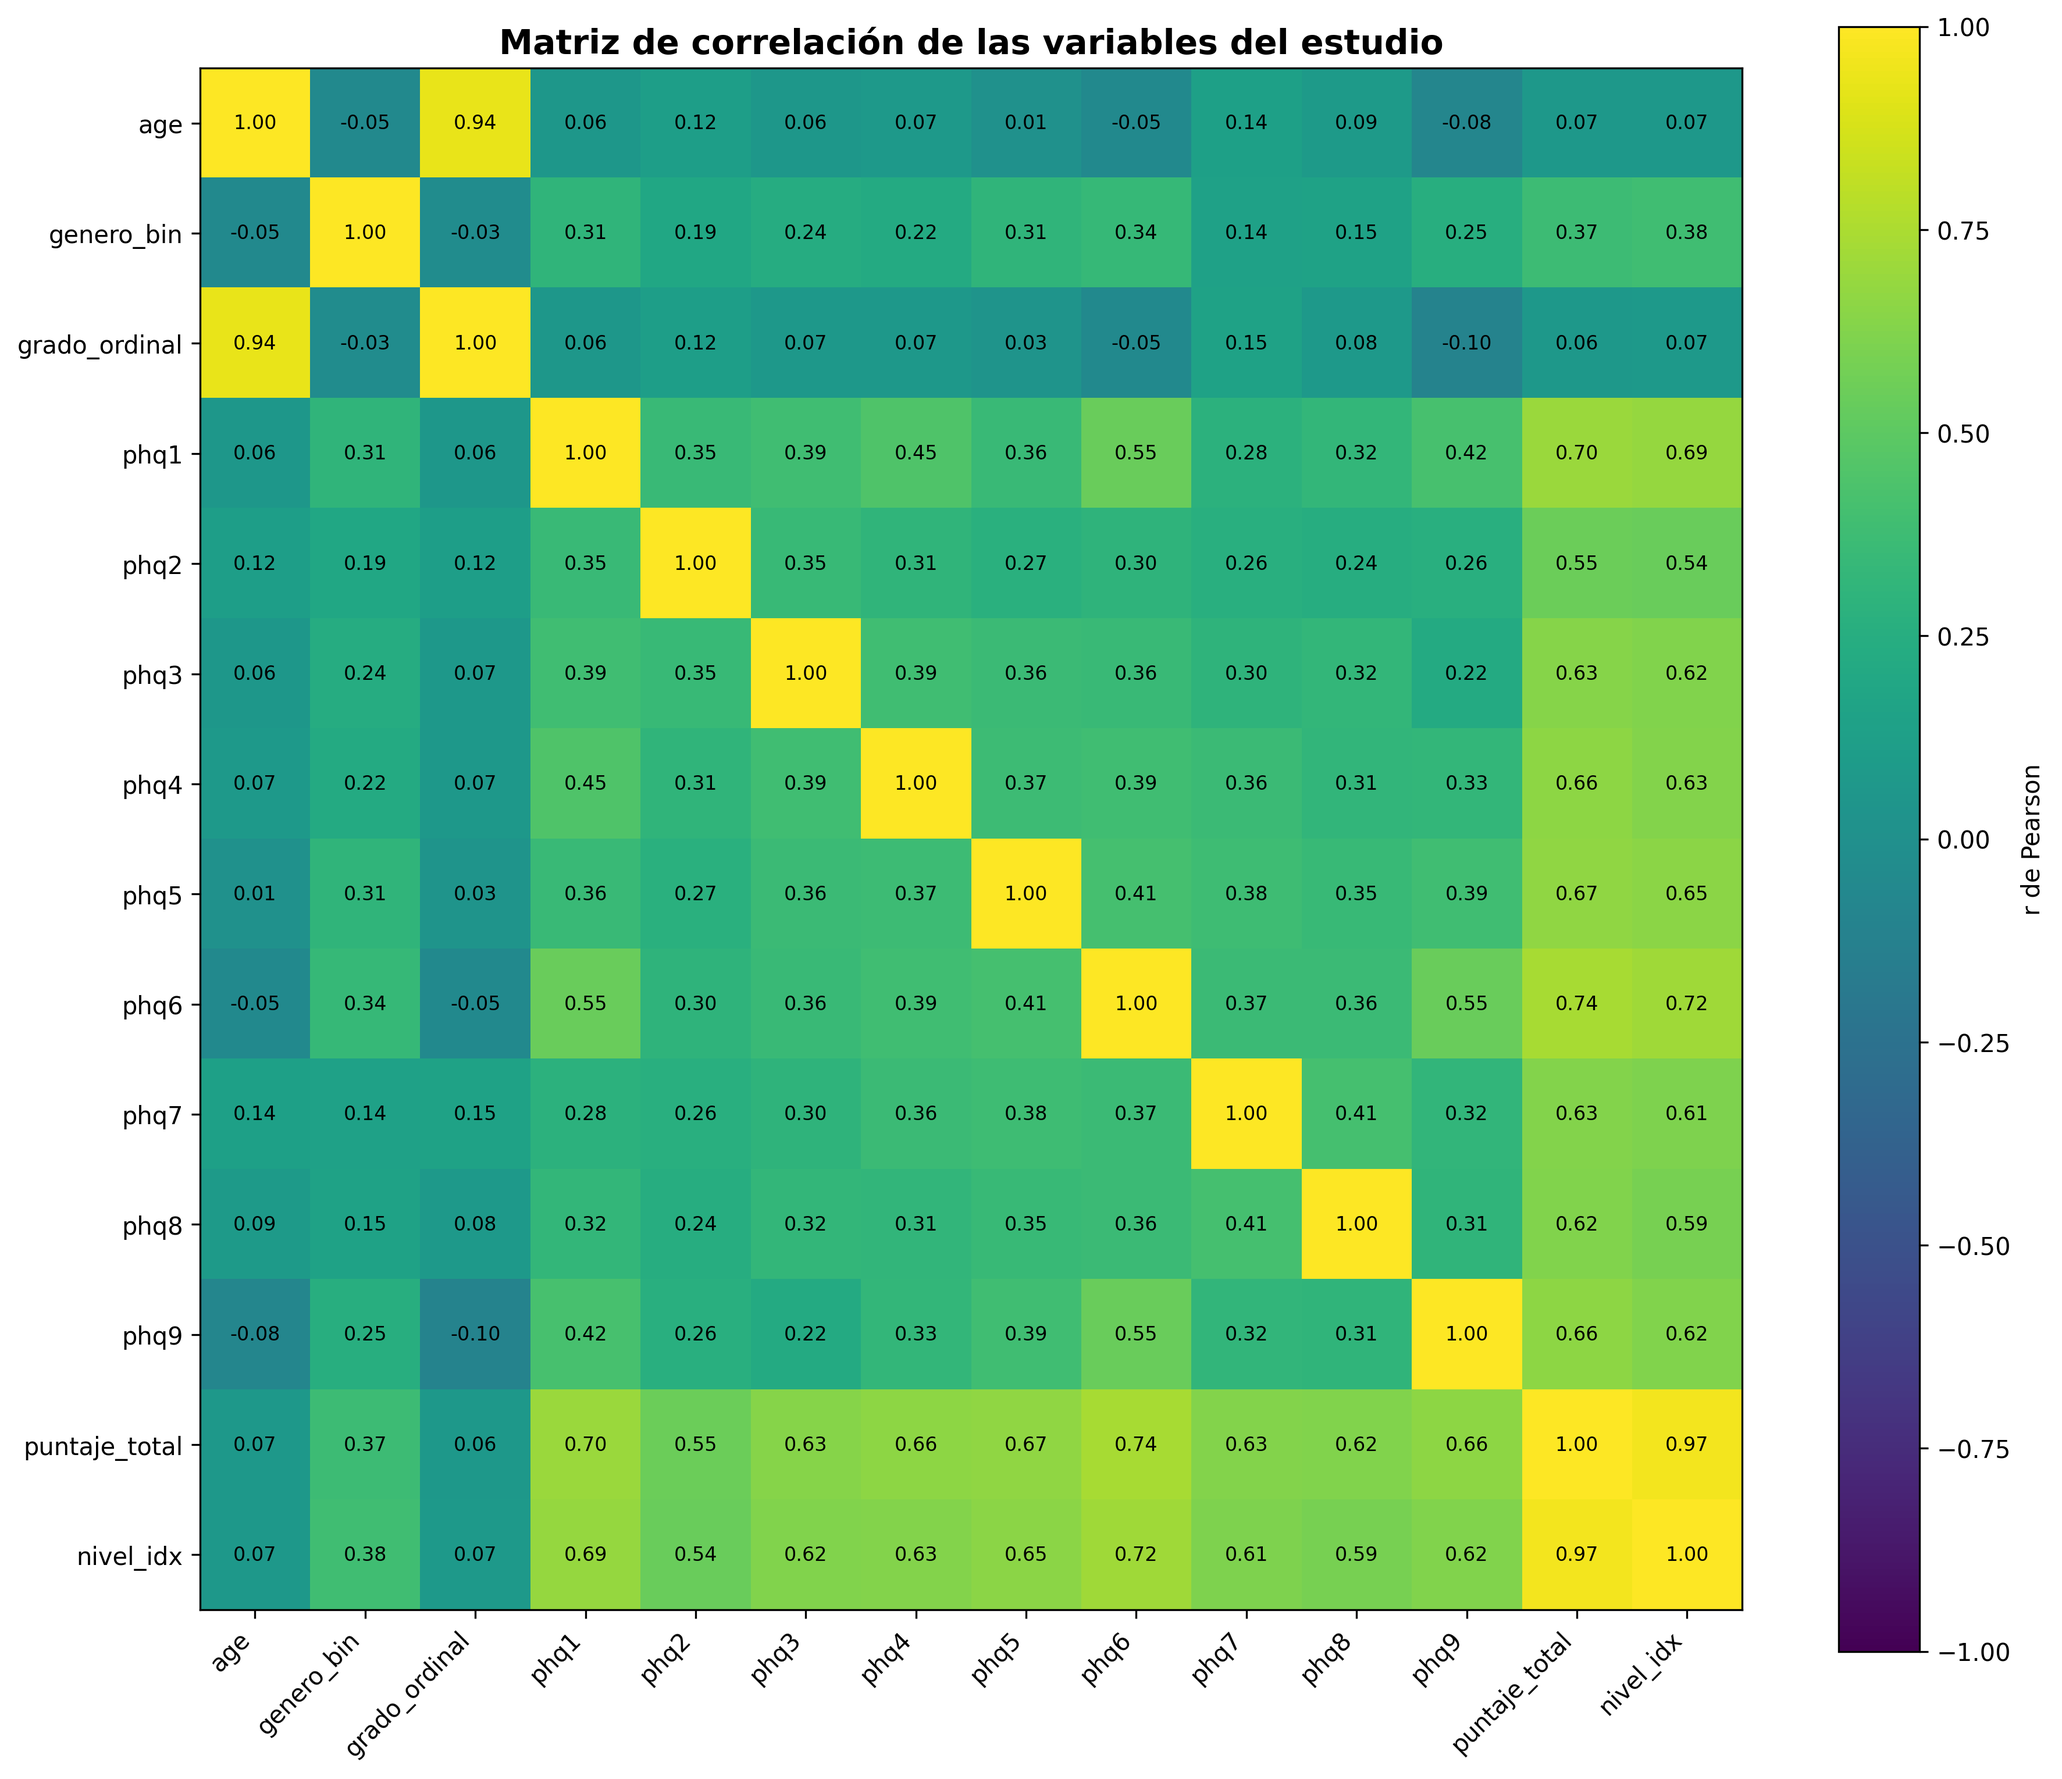
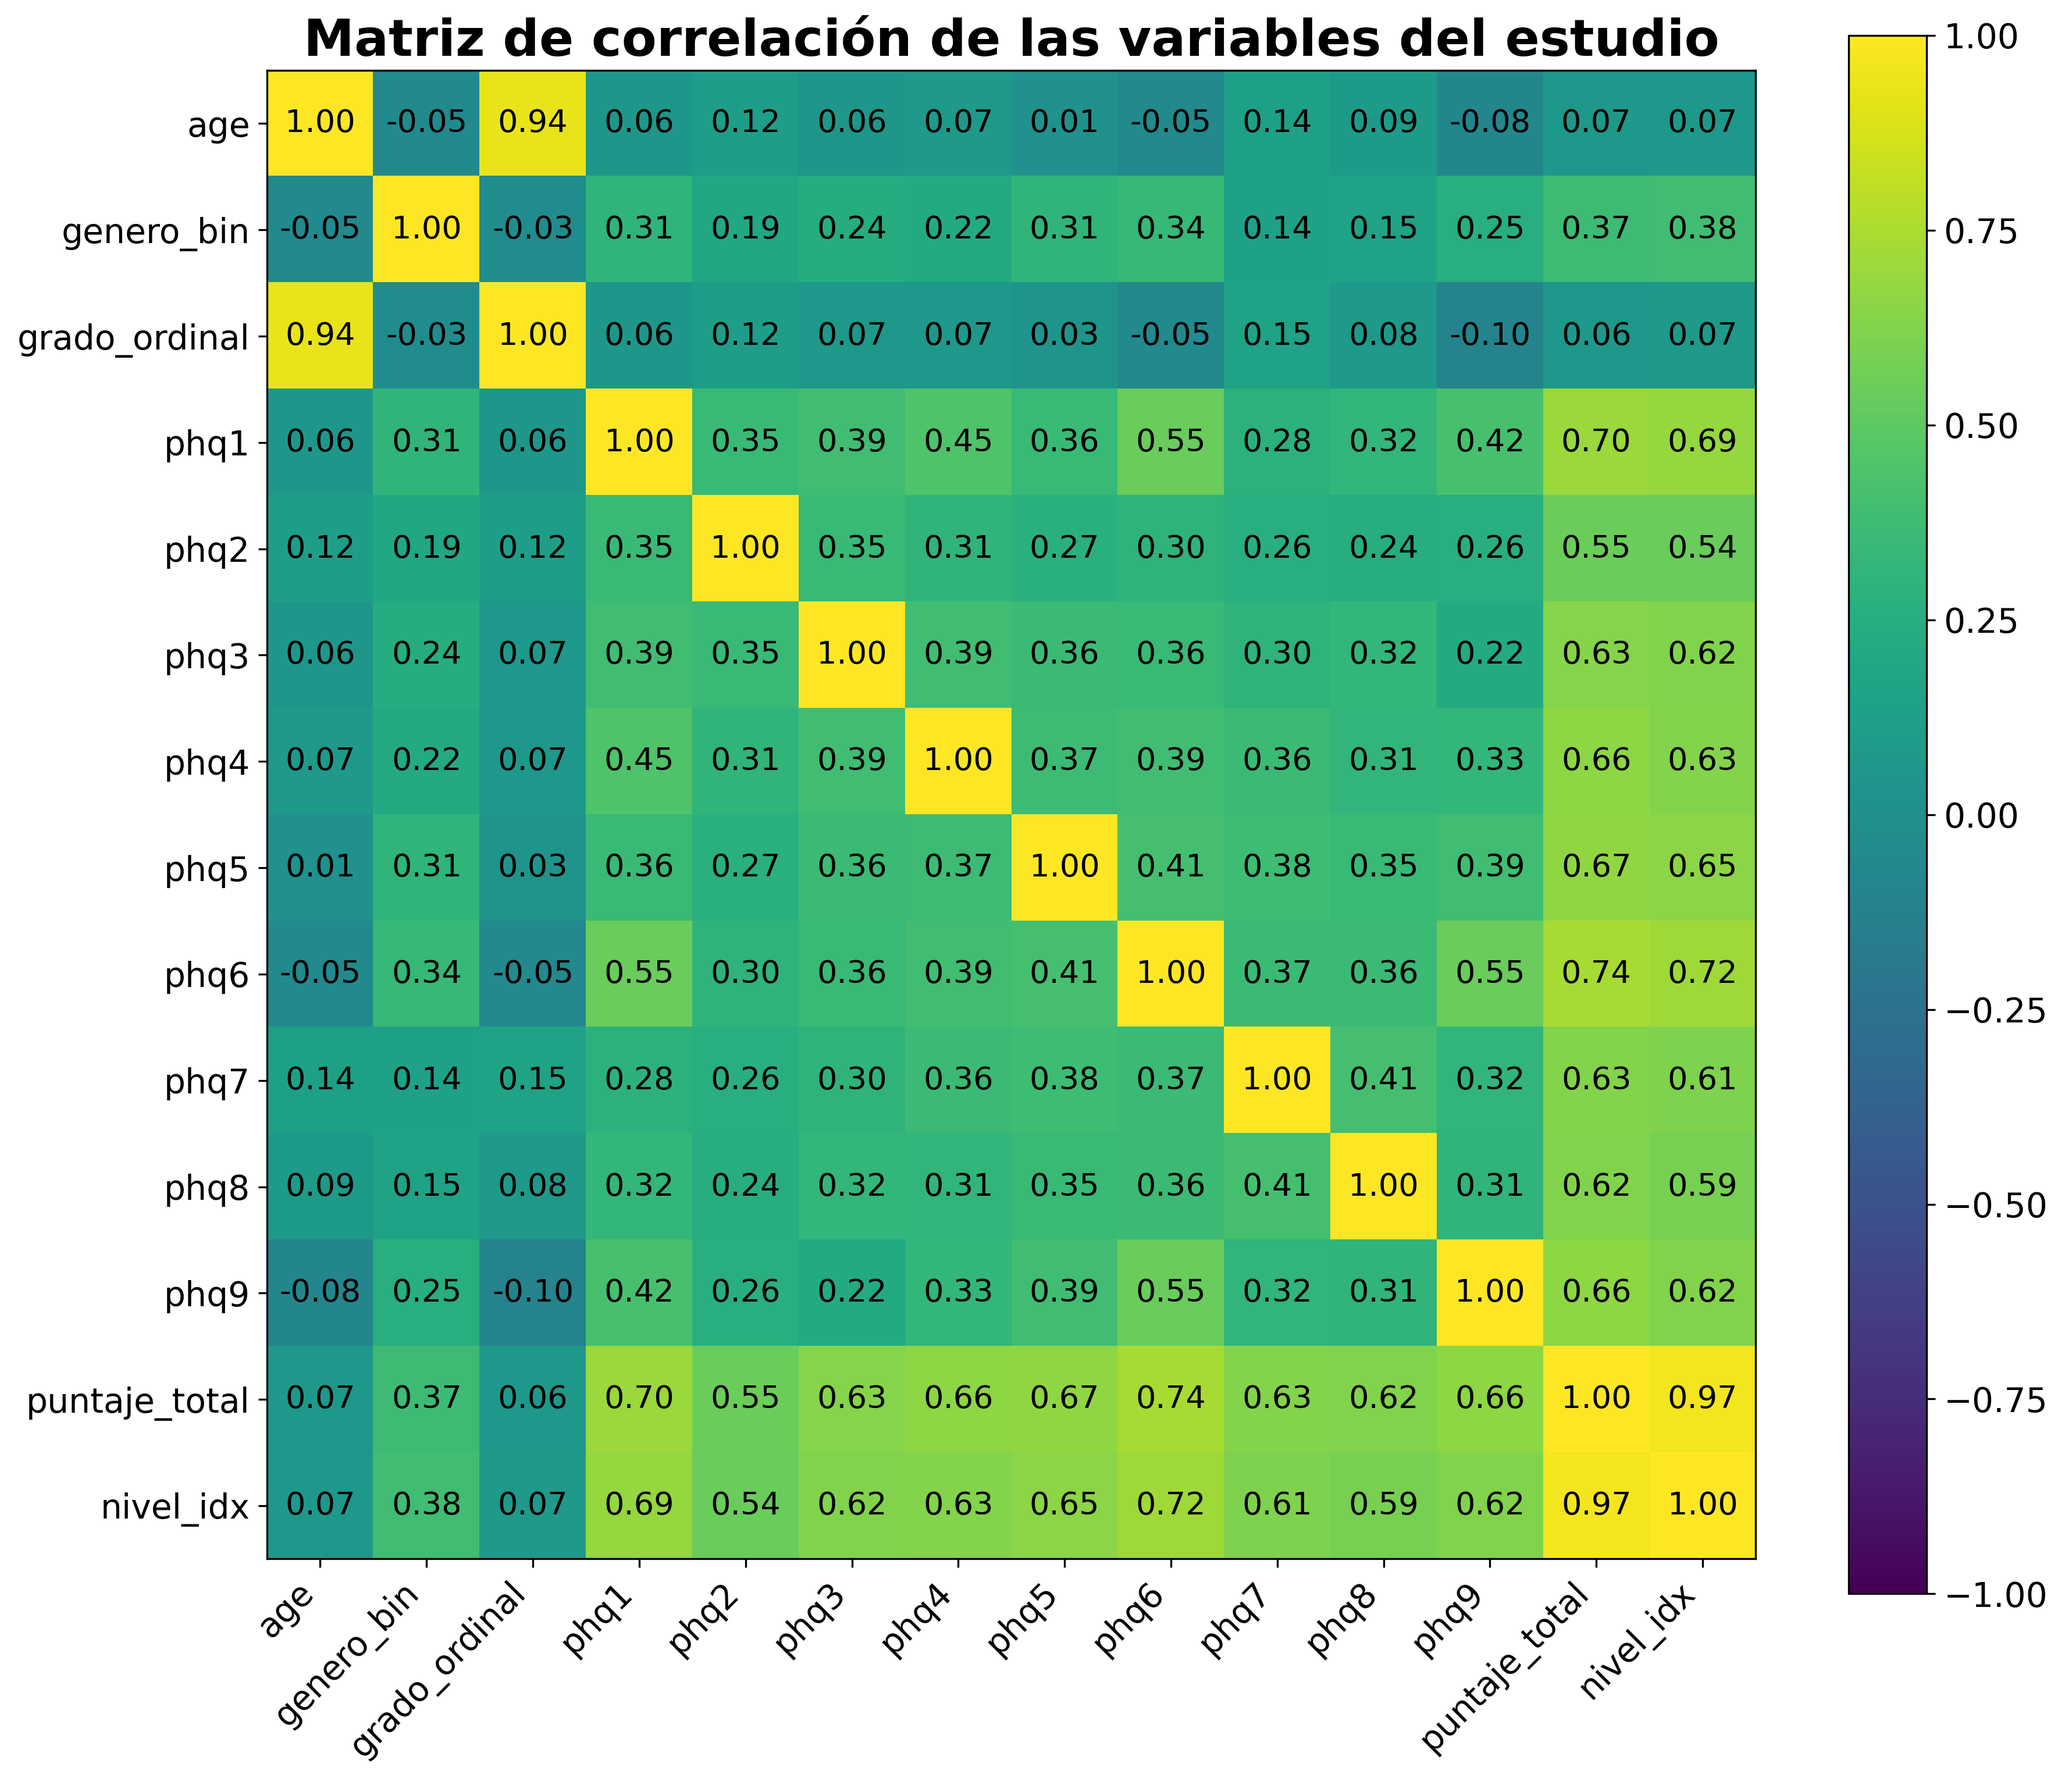
Actualizar la parte del EDA

diff --git a/data/preprocesamiento.py b/data/preprocesamiento.py
@@ -229,16 +229,19 @@ def _plot_corr_heatmap(corr: pd.DataFrame, title: str, outfile: Path):
     fig_w = max(8, 0.6 * n + 4)
     fig_h = max(6, 0.6 * n + 2)
     fig, ax = plt.subplots(figsize=(fig_w, fig_h))
+    
     im = ax.imshow(corr.values, vmin=-1, vmax=1)
-    plt.colorbar(im, ax=ax, label="r de Pearson")
-    ax.set_title(title, fontsize=14, weight="bold")
+    cbar = plt.colorbar(im, ax=ax, label="")
+    cbar.ax.tick_params(labelsize=14)
+
+    ax.set_title(title, fontsize=21, weight="bold")
     ax.set_xticks(range(n)); ax.set_yticks(range(n))
-    ax.set_xticklabels(labels, rotation=45, ha="right")
-    ax.set_yticklabels(labels)
+    ax.set_xticklabels(labels, rotation=45, ha="right", fontsize=14)
+    ax.set_yticklabels(labels, fontsize=14)
 
     for i in range(n):
         for j in range(n):
-            ax.text(j, i, f"{corr.values[i, j]:.2f}", ha="center", va="center", fontsize=8)
+            ax.text(j, i, f"{corr.values[i, j]:.2f}", ha="center", va="center", fontsize=13,weight="500")
     fig.tight_layout()
     fig.savefig(outfile, dpi=300, bbox_inches="tight")
     plt.close(fig)
@@ -262,10 +265,6 @@ def eda_correlaciones_pearson(df_can: pd.DataFrame, thr_abs: float = 0.8):
 
     if len(cols_pred) >= 2:
         corr_pred = df[cols_pred].corr(method="pearson")
-        _plot_corr_heatmap(corr_pred,
-                           "Mapa de calor — Correlaciones (Pearson) entre predictores (sin variables de resultado)",
-                           EDA_DIR / "21_corr_predictoras_pearson.png")
-
         abs_corr = corr_pred.abs()
         pairs = []
         for i in range(len(cols_pred)):
